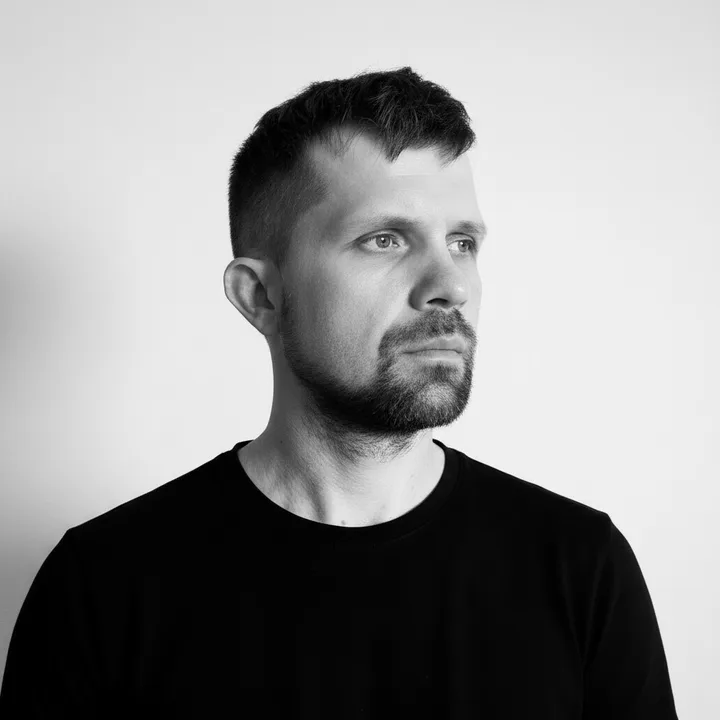
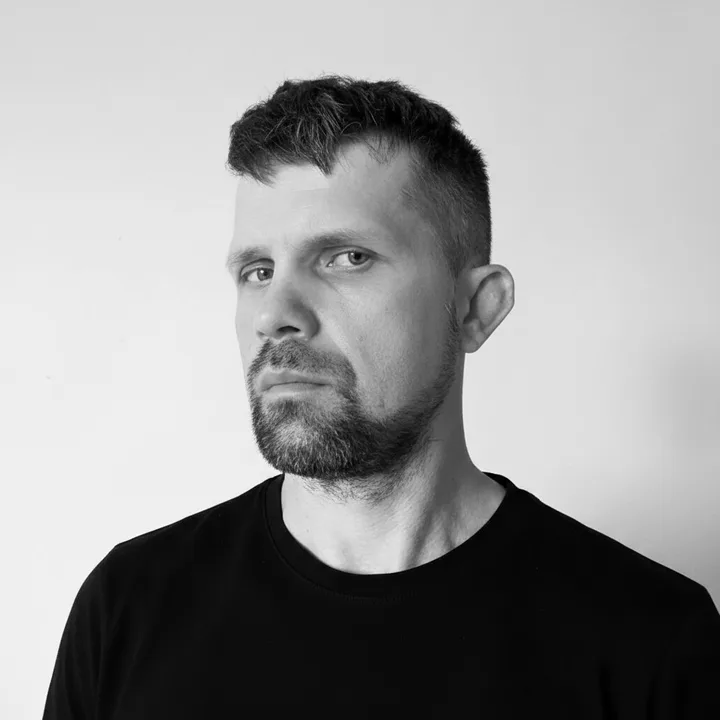
feat: fix portrait turn direction, drop yellow disc, add velocity drift
- Head-turn frames 1-3 regenerated: source photos face opposite ways
  (profile right, three-quarter left), so the sequence rotated wrong.
  Mirrored the three-quarter source; all five frames now turn one
  direction, profile -> front.
- Removed the acid-yellow disc behind the portrait (kept yellow scarce).
  Plain circular monochrome portrait with a thin bone ring.
- Added depth parallax on the circle plus a velocity-reactive drift:
  ScrollTrigger.getVelocity() feeds a clamped y + skewY on .turn-frames
  that eases back to rest, so the portrait lags and leans in the scroll
  direction. Same trick the Skills marquee uses.

Claude-Session: https://claude.ai/code/session_01ELnyWQRrMQowr2FKH5rFjW

diff --git a/index.html b/index.html
@@ -265,14 +265,11 @@
   .about-fig figcaption {
     margin-top:0; font-size:.68rem; text-transform:uppercase; letter-spacing:.05em; color:var(--bone-dim); max-width:24ch;
   }
-  .turn { position:relative; width:100%; max-width:320px; aspect-ratio:1; margin:0 auto 3rem; }
-  .turn-disc {
-    position:absolute; inset:0; border-radius:50%;
-    background:var(--signal); transform:translate(9%, 10%);
-  }
+  .turn { position:relative; width:100%; max-width:320px; aspect-ratio:1; margin:0 auto 1.6rem; will-change:transform; }
   .turn-frames {
     position:absolute; inset:0; border-radius:50%; overflow:hidden;
     border:1px solid var(--bone-faint); background:var(--bg-raise);
+    will-change:transform;
   }
   .turn-live, .turn-canvas {
     position:absolute; inset:0; width:100%; height:100%;
@@ -533,7 +530,6 @@
       <h2 class="manifesto" id="about-h">I coached wrestlers before I wrote code, and it turned out to be the same job: set the stance, hold the standard, move the group forward.</h2>
       <figure class="about-fig reveal">
         <div class="turn">
-          <span class="turn-disc" aria-hidden="true"></span>
           <div class="turn-frames">
             <img class="turn-live" src="assets/img/turn-4.webp" alt="Portrait of Dmytro Bilukha." width="640" height="640" loading="eager" decoding="async">
           </div>
@@ -981,6 +977,25 @@
         }
       });
 
+      /* portrait: depth parallax + velocity-reactive drift (follows scroll direction) */
+      gsap.to(".turn", { yPercent: -14, ease: "none",
+        scrollTrigger: { trigger: "#about", start: "top bottom", end: "bottom top", scrub: true } });
+      var drift = { v: 0 };
+      var clampV = gsap.utils.clamp(-52, 52);
+      ScrollTrigger.create({
+        trigger: "#about", start: "top bottom", end: "bottom top",
+        onUpdate: function (self) {
+          var v = clampV(self.getVelocity() / -46);
+          if (Math.abs(v) > Math.abs(drift.v)) {
+            drift.v = v;
+            gsap.to(drift, {
+              v: 0, duration: 0.9, ease: "power3",
+              onUpdate: function () { gsap.set(turnWrap, { y: drift.v, skewY: drift.v * 0.08 }); }
+            });
+          }
+        }
+      });
+
       /* 03 Impact - horizontal pan */
       var track = document.querySelector(".impact-track");
       track.classList.add("is-horizontal");
@@ -1114,6 +1129,7 @@
       return function () {
         splits.forEach(function (s) { try { s.revert(); } catch (e) {} });
         turnCv.remove();
+        gsap.set([".turn", turnWrap], { clearProps: "transform" });
         gsap.ticker.remove(raf);
         lenis.destroy();
         window.__lenis = null;

diff --git a/assets/img/SOURCES.md b/assets/img/SOURCES.md
@@ -106,11 +106,20 @@ this.
 5. **turn-3 (~15°)** — task `268215d5361bd03e7a11b20d64f80a77`,
    `--image turn-2 --image turn-4` → "much closer to front, only a slight turn".
 
+**Direction fix (v2):** the source photos face opposite ways (profile right,
+¾ left), so first-pass frames 1–3 rotated the wrong way. Refixed: ¾ source
+mirrored (`magick -flop`), frames 1/2/3 regenerated so the whole sequence
+turns one direction (right side of face toward camera → front).
+- turn-2 (~30°): task `<text-only style spec from mirrored ¾, no style-image ref —
+  passing the front anchor as a ref kept collapsing the angle to front>`
+- turn-1 (~55°): `--image turn-0 --image turn-2`, "halfway"
+- turn-3 (~15°): `--image turn-2 --image turn-4`, "slight turn"
+
 Post: each 1024² PNG → `magick f.png -colorspace Gray -resize 720x720^ -gravity
 center -extent 720x720 -quality 82 turn-N.webp`. Frame order in HTML/JS =
-0 profile … 4 front. ~18–20 KB each.
+0 profile … 4 front. ~15–20 KB each.
 
-KIE: 6 × nano-banana-edit @ 4cr = **24 credits (~$0.12)**.
+KIE: ~10 × nano-banana-edit @ 4cr = **~40 credits (~$0.20)**.
 
 ---
 
